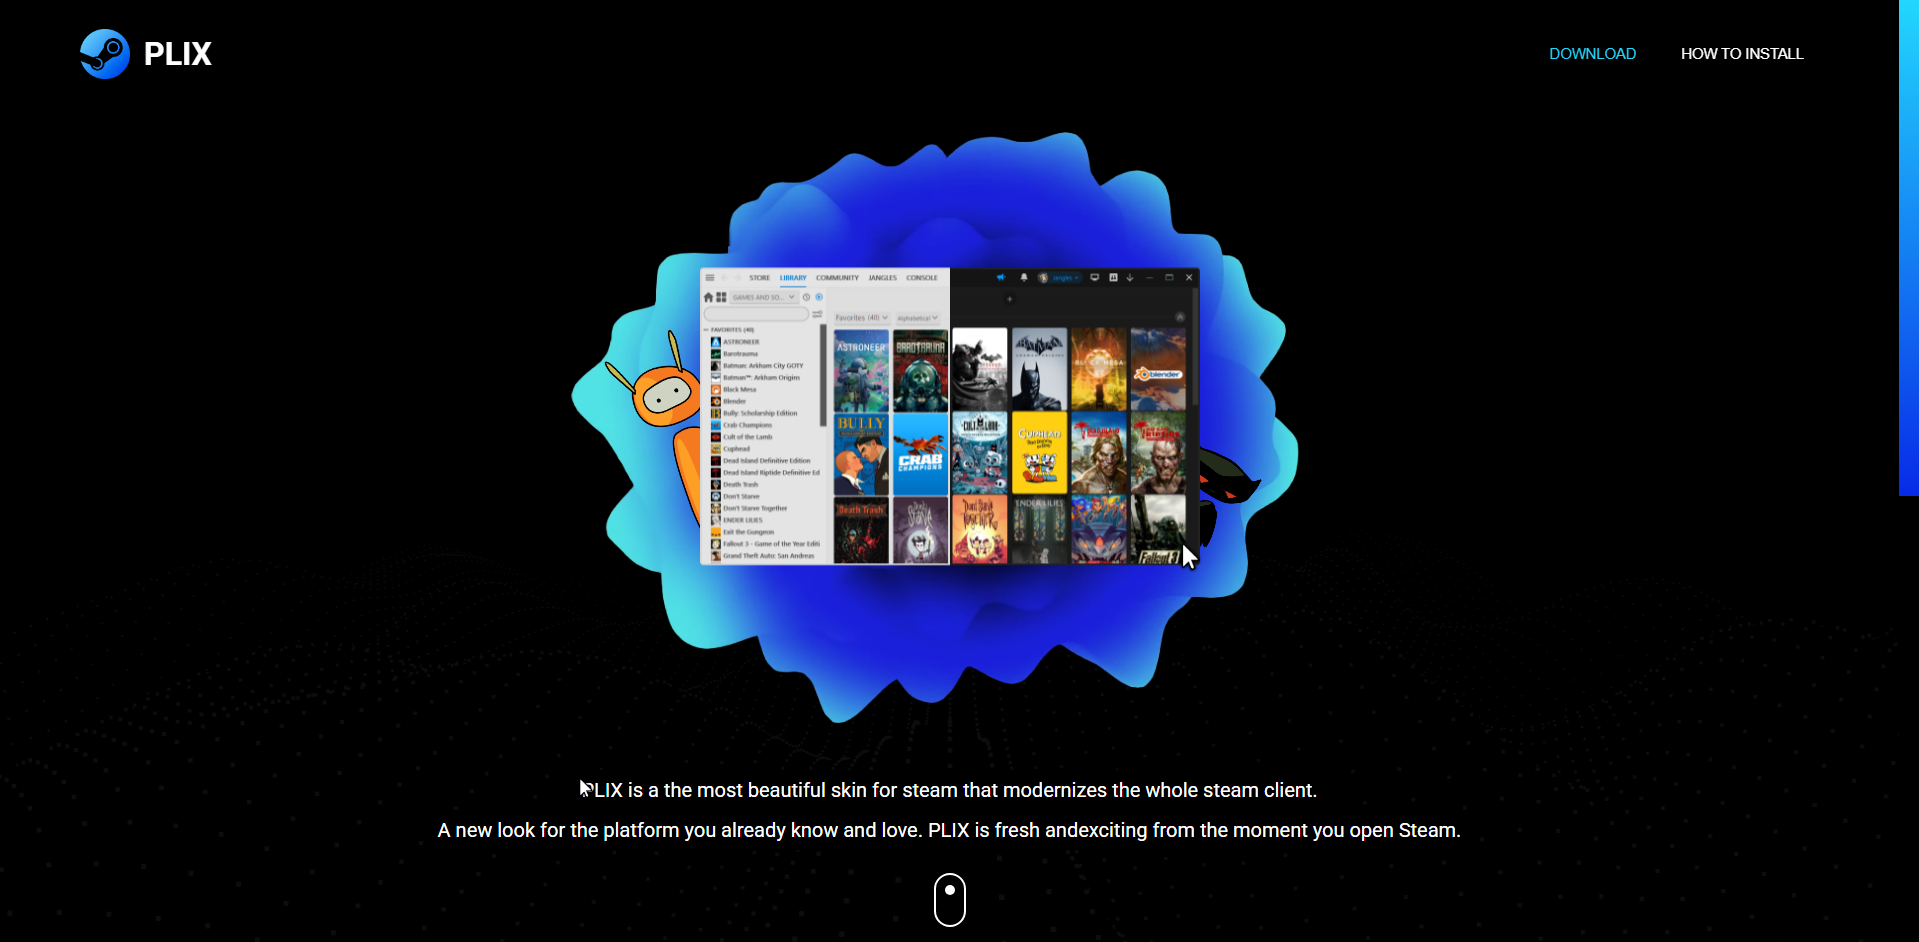
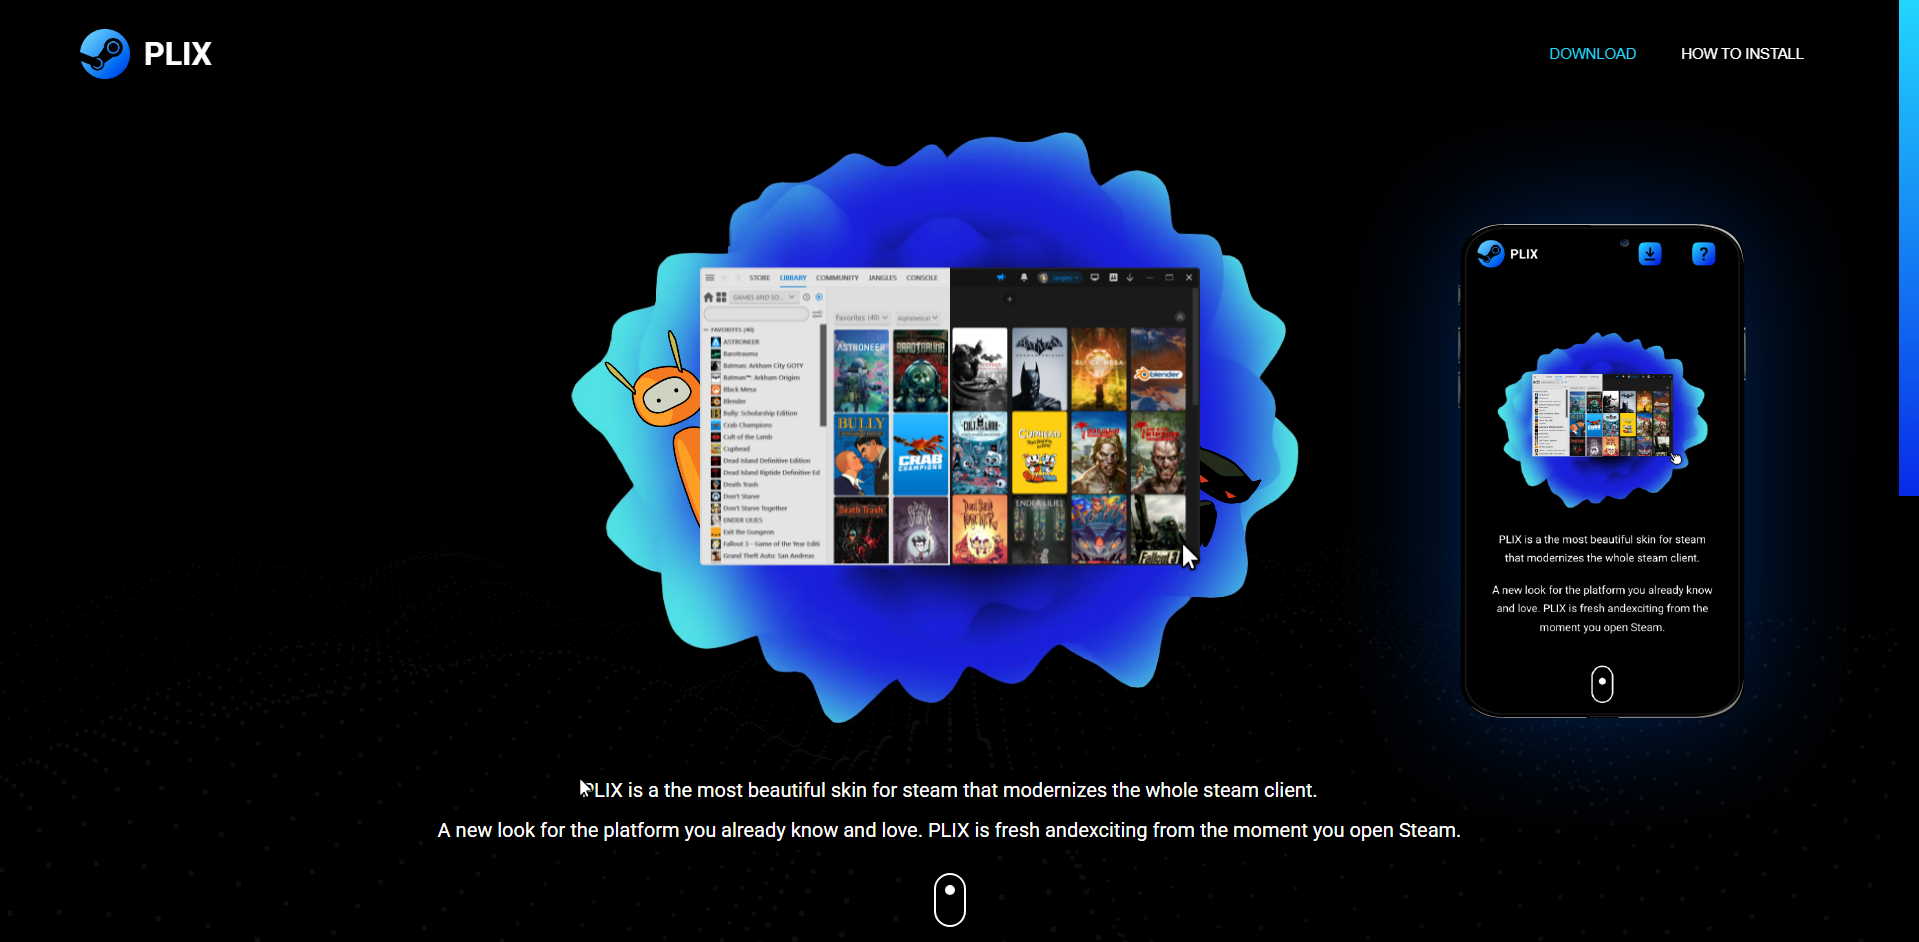
Minor Update
• Improved responsiveness

Changed region(s): [[0.7379, 0.1847, 0.9531, 0.8004]]

diff --git a/main.css b/main.css
@@ -1020,6 +1020,11 @@
                 display: none;
             }
 
+            #content1text {
+                width: 84%
+            }
+
+
             #content1text p {
                 font-size: 1.1rem;
                 line-height: 1.7rem;
@@ -1084,6 +1089,10 @@
 
             #clientarrow-wrapper {
                 width: 80px;
+            }
+
+            #content1text p {
+                font-size: 1rem;
             }
 
             #fgcanvas {
@@ -1182,7 +1191,4 @@
                 font-size: 1.4rem;
             }
 
-            .content1text p {
-                font-size: .875rem;
-            }
         }
